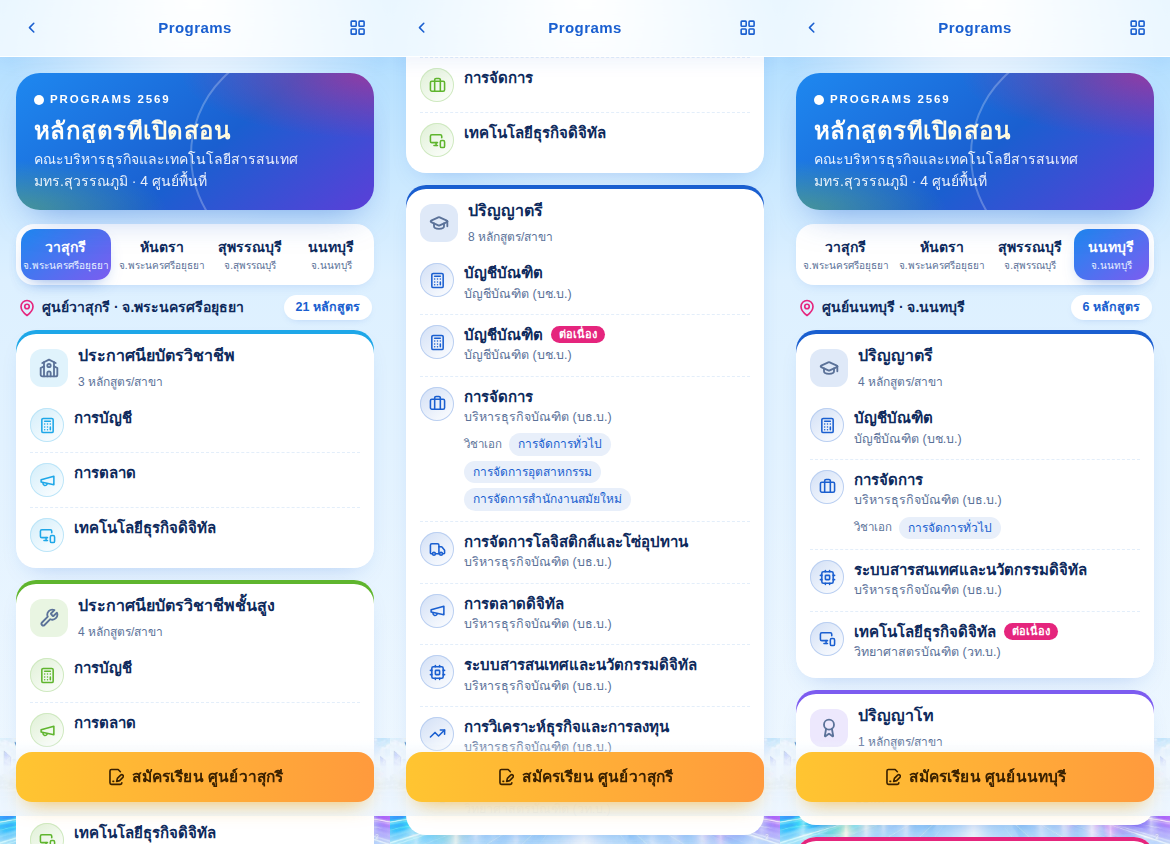
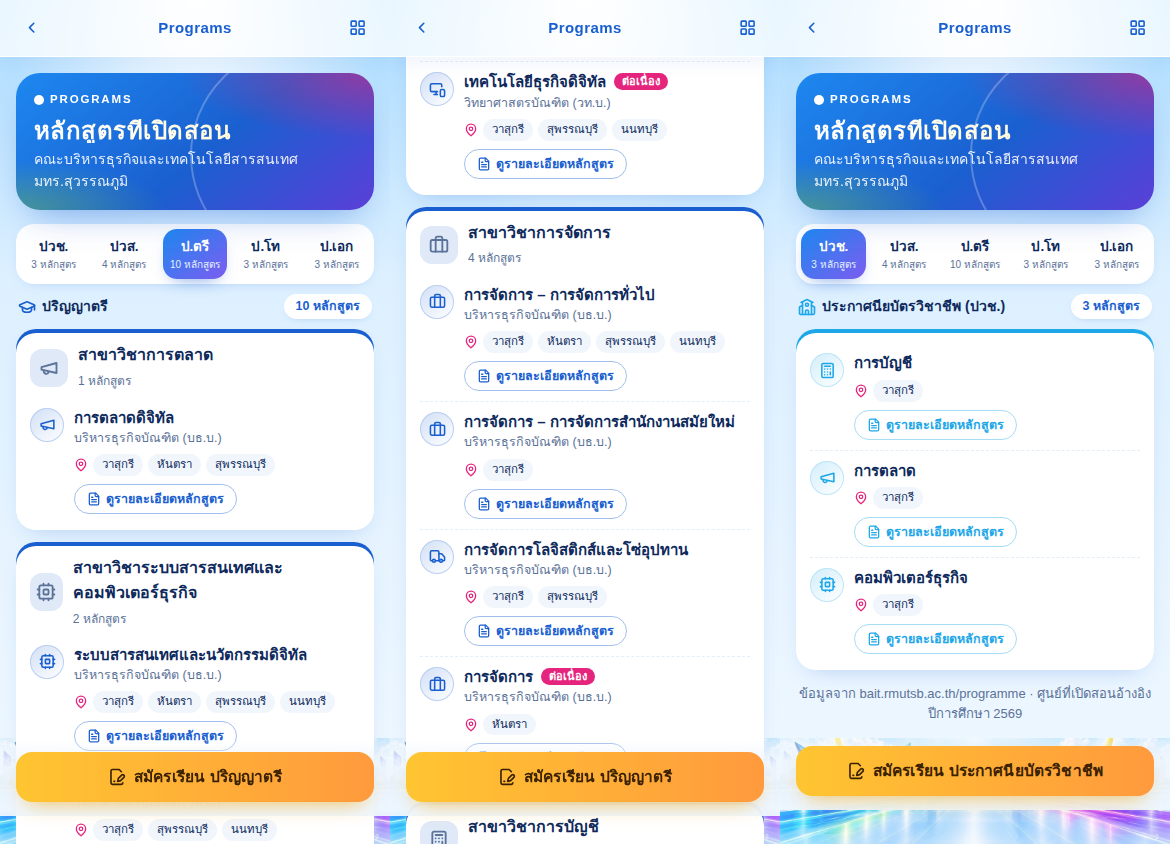
Add files via upload

diff --git a/index.html b/index.html
@@ -601,6 +601,15 @@ input.in:focus,select.in:focus{border-color:#1E88F0;box-shadow:var(--glow-c)}
 .pm span{font-size:11.5px;color:var(--muted);margin-right:2px}
 .pm em{font-style:normal;font-size:12px;color:var(--lc);background:color-mix(in srgb,var(--lc) 10%,#fff);border-radius:999px;padding:2px 9px}
 .applybar{position:sticky;bottom:0;margin:10px -16px -28px;padding:12px 16px calc(14px + env(safe-area-inset-bottom,0px));background:linear-gradient(180deg,rgba(238,247,255,0),rgba(238,247,255,.96) 35%)}
+
+.ctabs.lv5{grid-template-columns:repeat(5,1fr)}
+.ctabs.lv5 b{font-size:13.5px}
+.ptag.new{background:var(--lime)}
+.pc{display:flex;flex-wrap:wrap;align-items:center;gap:5px;margin-top:6px}
+.pc svg.lucide{width:14px;height:14px;color:var(--magenta)}
+.pc em{font-style:normal;font-size:11.5px;color:var(--text);background:#F1F6FC;border-radius:999px;padding:2px 9px}
+.plink{margin-top:8px;border:1px solid color-mix(in srgb,var(--lc) 40%,#fff);background:#fff;color:var(--lc);border-radius:999px;padding:4px 12px;font:600 12.5px var(--head);display:inline-flex;align-items:center;gap:5px;cursor:pointer}
+.plink svg.lucide{width:14px;height:14px}
 </style>
 </head>
 <body>
@@ -1191,53 +1200,76 @@ VIEWS.eval=function(){
     (u?'<button class="btn scanbig" id="eGo"><i data-lucide="clipboard-check"></i>ทำแบบประเมิน</button>':'<div class="card emptybox" style="margin-top:14px"><i data-lucide="clock"></i><div><b>แบบประเมินยังไม่เปิด</b><div class="sub" style="margin:4px 0 0">จะเปิดให้ทำในวันงาน</div></div></div>'),
     after:function(){if($("eGo"))$("eGo").onclick=function(){openUrl(u);};}};
 };
-/* ข้อมูลหลักสูตรคณะบริหารธุรกิจและเทคโนโลยีสารสนเทศ ปีการศึกษา 2569 (ข้อมูล ณ 1 ก.ย. 2569) */
-var BAIT_PROGRAMS=(function(){
-  var ACC={d:"บัญชีบัณฑิต (บช.บ.)",n:"บัญชีบัณฑิต"}, ACCC={d:"บัญชีบัณฑิต (บช.บ.)",n:"บัญชีบัณฑิต",c:1};
-  function BBA(n,o){return Object.assign({d:"บริหารธุรกิจบัณฑิต (บธ.บ.)",n:n},o||{});}
-  var DBT={d:"วิทยาศาสตรบัณฑิต (วท.บ.)",n:"เทคโนโลยีธุรกิจดิจิทัล",c:1};
-  return [
-  {k:"wasukri",name:"ศูนย์วาสุกรี",loc:"จ.พระนครศรีอยุธยา",levels:[
-    {lv:"ปวช.",full:"ประกาศนียบัตรวิชาชีพ",items:[{n:"การบัญชี"},{n:"การตลาด"},{n:"เทคโนโลยีธุรกิจดิจิทัล"}]},
-    {lv:"ปวส.",full:"ประกาศนียบัตรวิชาชีพชั้นสูง",items:[{n:"การบัญชี"},{n:"การตลาด"},{n:"การจัดการ"},{n:"เทคโนโลยีธุรกิจดิจิทัล"}]},
-    {lv:"ปริญญาตรี",full:"ปริญญาตรี",items:[ACC,ACCC,BBA("การจัดการ",{m:["การจัดการทั่วไป","การจัดการอุตสาหกรรม","การจัดการสำนักงานสมัยใหม่"]}),BBA("การจัดการโลจิสติกส์และโซ่อุปทาน"),BBA("การตลาดดิจิทัล"),BBA("ระบบสารสนเทศและนวัตกรรมดิจิทัล"),BBA("การวิเคราะห์ธุรกิจและการลงทุน"),DBT]},
-    {lv:"ปริญญาโท",full:"ปริญญาโท",items:[{d:"บธ.ม.",n:"บริหารธุรกิจมหาบัณฑิต"},{d:"บช.ม.",n:"บัญชีมหาบัณฑิต"},{d:"วท.ม.",n:"วิทยาการจัดการนวัตกรรมดิจิทัล"}]},
-    {lv:"ปริญญาเอก",full:"ปริญญาเอก",items:[{d:"บธ.ด.",n:"บริหารธุรกิจดุษฎีบัณฑิต"},{d:"ปร.ด.",n:"การบัญชี"},{d:"ปร.ด.",n:"วิทยาการจัดการนวัตกรรมดิจิทัล"}]}]},
-  {k:"huntra",name:"ศูนย์หันตรา",loc:"จ.พระนครศรีอยุธยา",levels:[
-    {lv:"ปริญญาตรี",full:"ปริญญาตรี",items:[ACC,BBA("การจัดการ",{m:["การจัดการทั่วไป"]}),BBA("การจัดการ",{c:1}),BBA("การตลาดดิจิทัล"),BBA("ระบบสารสนเทศและนวัตกรรมดิจิทัล")]}]},
-  {k:"suphan",name:"ศูนย์สุพรรณบุรี",loc:"จ.สุพรรณบุรี",levels:[
-    {lv:"ปริญญาตรี",full:"ปริญญาตรี",items:[ACC,ACCC,BBA("การจัดการ",{m:["การจัดการทั่วไป"]}),BBA("การจัดการโลจิสติกส์และโซ่อุปทาน"),BBA("การตลาดดิจิทัล"),BBA("ระบบสารสนเทศและนวัตกรรมดิจิทัล"),DBT]}]},
-  {k:"nonthaburi",name:"ศูนย์นนทบุรี",loc:"จ.นนทบุรี",levels:[
-    {lv:"ปริญญาตรี",full:"ปริญญาตรี",items:[ACC,BBA("การจัดการ",{m:["การจัดการทั่วไป"]}),BBA("ระบบสารสนเทศและนวัตกรรมดิจิทัล"),DBT]},
-    {lv:"ปริญญาโท",full:"ปริญญาโท",items:[{d:"บธ.ม.",n:"บริหารธุรกิจมหาบัณฑิต"}]},
-    {lv:"ปริญญาเอก",full:"ปริญญาเอก",items:[{d:"บธ.ด.",n:"บริหารธุรกิจดุษฎีบัณฑิต"}]}]}];
-})();
-var LV_STYLE={"ปวช.":["school","#1EA7E8"],"ปวส.":["wrench","#5FB52E"],"ปริญญาตรี":["graduation-cap","#1A5FD0"],"ปริญญาโท":["award","#7C5CF0"],"ปริญญาเอก":["medal","#E5257D"]};
+/* ข้อมูลหลักสูตร: https://bait.rmutsb.ac.th/programme/ · ศูนย์ที่เปิดสอนอ้างอิงข้อมูลหลักสูตรปีการศึกษา 2569 */
+var CW="วาสุกรี",CH="หันตรา",CS="สุพรรณบุรี",CN="นนทบุรี";
+var BAIT_LEVELS=[
+ {k:"pvc",tab:"ปวช.",full:"ประกาศนียบัตรวิชาชีพ (ปวช.)",apply:"https://bait.rmutsb.ac.th/button-admisvocational-page",groups:[
+  {g:"",items:[
+   {n:"การบัญชี",c:[CW],u:"D1JePwKcuocURZWpoKKtPju9KjRvWyFu2k"},
+   {n:"การตลาด",c:[CW],u:"D1vqIORQJ7J_tGnx1-sRrSpXaxwbhONFTC"},
+   {n:"คอมพิวเตอร์ธุรกิจ",c:[CW],u:"D11-yjJaUIb7jlYPV5Qua8RccSkV83ACzP"}]}]},
+ {k:"pvs",tab:"ปวส.",full:"ประกาศนียบัตรวิชาชีพชั้นสูง (ปวส.)",apply:"https://bait.rmutsb.ac.th/button-admishighvocational-page-3",groups:[
+  {g:"",items:[
+   {n:"การบัญชี",c:[CW],u:"D1PE13eix7jcgxxuR3JrZOZ4SlQG6ZQYox"},
+   {n:"การตลาด",c:[CW],u:"D19A7KiTvQ2E_cSX7ixLo606hQpL3lKwN7"},
+   {n:"การจัดการ",c:[CW],u:"D1rRVnzbPA-M9FII6Lt0gUCHE4q2d_1Y59"},
+   {n:"เทคโนโลยีธุรกิจดิจิทัล",c:[CW],u:"D11G-wYx2PgZ2FyjWu1jQSyIDGgBP707Wu"}]}]},
+ {k:"bd",tab:"ป.ตรี",full:"ปริญญาตรี",apply:"https://bait.rmutsb.ac.th/admisdegreehighvocational-3",groups:[
+  {g:"สาขาวิชาการตลาด",items:[{n:"การตลาดดิจิทัล",d:"บริหารธุรกิจบัณฑิต (บธ.บ.)",c:[CW,CH,CS],u:"D1I2UqqDTAE980A-0atF9HHBrkoIMsRY0J"}]},
+  {g:"สาขาวิชาระบบสารสนเทศและคอมพิวเตอร์ธุรกิจ",items:[
+   {n:"ระบบสารสนเทศและนวัตกรรมดิจิทัล",d:"บริหารธุรกิจบัณฑิต (บธ.บ.)",c:[CW,CH,CS,CN],u:"D1iEOzdCT7EtSkLvxn5N1UhxOBuTASmy1B"},
+   {n:"เทคโนโลยีธุรกิจดิจิทัล",d:"วิทยาศาสตรบัณฑิต (วท.บ.)",t:"ต่อเนื่อง",c:[CW,CS,CN],u:"D1lG-hPqUVffGVgUToHtr0v_ziKrKrDn0Z"}]},
+  {g:"สาขาวิชาการจัดการ",items:[
+   {n:"การจัดการ – การจัดการทั่วไป",d:"บริหารธุรกิจบัณฑิต (บธ.บ.)",c:[CW,CH,CS,CN],u:"D1wMEn2r7jpY3fTxQw8qqtxFQ4qZTDNYnr"},
+   {n:"การจัดการ – การจัดการสำนักงานสมัยใหม่",d:"บริหารธุรกิจบัณฑิต (บธ.บ.)",c:[CW],u:"D1wMEn2r7jpY3fTxQw8qqtxFQ4qZTDNYnr"},
+   {n:"การจัดการโลจิสติกส์และโซ่อุปทาน",d:"บริหารธุรกิจบัณฑิต (บธ.บ.)",c:[CW,CS],u:"D15kozN_qqWRBSabDeyreiXDmu1FIj2T-a"},
+   {n:"การจัดการ",d:"บริหารธุรกิจบัณฑิต (บธ.บ.)",t:"ต่อเนื่อง",c:[CH],u:"D17UzdWItw4XRkdOLAg6wdQ1wLOK1m1pj4"}]},
+  {g:"สาขาวิชาการบัญชี",items:[
+   {n:"บัญชีบัณฑิต",d:"บัญชีบัณฑิต (บช.บ.)",c:[CW,CH,CS,CN],u:"D1Cb2DQtxoPzYk4mWqM1B3c6Q1ZEDucymE"},
+   {n:"บัญชีบัณฑิต",d:"บัญชีบัณฑิต (บช.บ.)",t:"ต่อเนื่อง",c:[CW,CS],u:"D1uxKk9aFLkd70Aim5Xl6qwOKFgAJPe5ay"}]},
+  {g:"สาขาวิชาการเงินและเศรษฐศาสตร์",items:[
+   {n:"การวิเคราะห์ธุรกิจและการลงทุน",d:"บริหารธุรกิจบัณฑิต (บธ.บ.)",t:"หลักสูตรใหม่ 2569",c:[CW],u:"D1ALWX1yAPQ6rzZoX3tOo6DlCUlqDiEPqi"}]}]},
+ {k:"ms",tab:"ป.โท",full:"ปริญญาโท",apply:"",groups:[
+  {g:"",items:[
+   {n:"บริหารธุรกิจมหาบัณฑิต (M.B.A.)",d:"บธ.ม.",c:[CW,CN],u:"D1X1XkhnGyXTW14CH-b4wzDrExpUuX2FFB"},
+   {n:"บัญชีมหาบัณฑิต (M.Acc.)",d:"บช.ม.",c:[CW],u:"D1UpuO-SC72fV8Egr1arr13oRNEIUL4LZ8"},
+   {n:"วิทยาการจัดการนวัตกรรมดิจิทัล (D.I.M.)",d:"วิทยาศาสตรมหาบัณฑิต (วท.ม.)",c:[CW],u:"D1NiYjxaNTJmofHpYMX942xq-pM7niFS9M"}]}]},
+ {k:"phd",tab:"ป.เอก",full:"ปริญญาเอก",apply:"",groups:[
+  {g:"",items:[
+   {n:"บริหารธุรกิจดุษฎีบัณฑิต (D.B.A.)",d:"บธ.ด.",c:[CW,CN],u:"D1dbyS4roPHz6jpYjK7Gu44V-fDgOJedvX"},
+   {n:"การบัญชี (Ph.D.Acc.)",d:"ปรัชญาดุษฎีบัณฑิต (ปร.ด.)",c:[CW],u:"D1RZ4PJlwGe8fXOfY5D4UgNNuSz27U1zAD"},
+   {n:"วิทยาการจัดการนวัตกรรมดิจิทัล (Ph.D.D.I.M.)",d:"ปรัชญาดุษฎีบัณฑิต (ปร.ด.)",c:[CW],u:"D1uGQOJhTx1s2hKKvaImWbsRMase4WrSgF"}]}]}
+];
+var LV_STYLE2={pvc:["school","#1EA7E8"],pvs:["wrench","#5FB52E"],bd:["graduation-cap","#1A5FD0"],ms:["award","#7C5CF0"],phd:["medal","#E5257D"]};
+function driveUrl(u){return u?"https://drive.google.com/file/d/"+u.slice(1)+"/view":"";}
 function progIcon(n){
   if(/บัญชี/.test(n))return "calculator"; if(/โลจิสติกส์/.test(n))return "truck"; if(/การตลาด/.test(n))return "megaphone";
-  if(/ระบบสารสนเทศ/.test(n))return "cpu"; if(/วิเคราะห์ธุรกิจ/.test(n))return "trending-up"; if(/เทคโนโลยีธุรกิจดิจิทัล/.test(n))return "monitor-smartphone";
+  if(/ระบบสารสนเทศ|คอมพิวเตอร์/.test(n))return "cpu"; if(/วิเคราะห์ธุรกิจ/.test(n))return "trending-up"; if(/เทคโนโลยีธุรกิจดิจิทัล/.test(n))return "monitor-smartphone";
   if(/นวัตกรรมดิจิทัล/.test(n))return "lightbulb"; return "briefcase";
 }
 VIEWS.programs=function(p){
-  var ck=(p&&p.c)||"wasukri", ap=S.settings.applyUrl, C=BAIT_PROGRAMS.filter(function(c){return c.k===ck;})[0]||BAIT_PROGRAMS[0];
-  var total=C.levels.reduce(function(t,l){return t+l.items.length;},0);
-  var tabs='<div class="ctabs" role="tablist">'+BAIT_PROGRAMS.map(function(c){return '<button role="tab" aria-selected="'+(c.k===C.k)+'" data-c="'+c.k+'"><b>'+esc(c.name.replace("ศูนย์",""))+'</b><span>'+esc(c.loc)+'</span></button>';}).join("")+'</div>';
-  var sections=C.levels.map(function(L){var st=LV_STYLE[L.lv]||["book-open","#1A5FD0"];
-    return '<section class="lvsec" style="--lc:'+st[1]+'"><div class="lvhead"><span class="lvic"><i data-lucide="'+st[0]+'"></i></span><div><b>'+esc(L.full)+'</b><span>'+L.items.length+' หลักสูตร/สาขา</span></div></div>'+
-      '<ul class="plist">'+L.items.map(function(it){
-        return '<li><span class="pic"><i data-lucide="'+progIcon(it.n)+'"></i></span><div><div class="pn">'+esc(it.n)+(it.c?' <span class="ptag">ต่อเนื่อง</span>':'')+'</div>'+
+  var lk=(p&&p.l)||"bd", L=BAIT_LEVELS.filter(function(x){return x.k===lk;})[0]||BAIT_LEVELS[2], st=LV_STYLE2[L.k];
+  var ap=L.apply||S.settings.applyUrl||"https://admis.rmutsb.ac.th/";
+  var total=L.groups.reduce(function(t,g){return t+g.items.length;},0);
+  var tabs='<div class="ctabs lv5" role="tablist">'+BAIT_LEVELS.map(function(x){var n=x.groups.reduce(function(t,g){return t+g.items.length;},0);return '<button role="tab" aria-selected="'+(x.k===L.k)+'" data-l="'+x.k+'"><b>'+esc(x.tab)+'</b><span>'+n+' หลักสูตร</span></button>';}).join("")+'</div>';
+  var body=L.groups.map(function(G){
+    return '<section class="lvsec" style="--lc:'+st[1]+'">'+(G.g?'<div class="lvhead"><span class="lvic"><i data-lucide="'+progIcon(G.g)+'"></i></span><div><b>'+esc(G.g)+'</b><span>'+G.items.length+' หลักสูตร</span></div></div>':'')+
+      '<ul class="plist">'+G.items.map(function(it){
+        return '<li><span class="pic"><i data-lucide="'+progIcon(it.n)+'"></i></span><div><div class="pn">'+esc(it.n)+(it.t?' <span class="ptag'+(/ใหม่/.test(it.t)?' new':'')+'">'+esc(it.t)+'</span>':'')+'</div>'+
           (it.d?'<div class="pd">'+esc(it.d)+'</div>':'')+
-          (it.m?'<div class="pm"><span>วิชาเอก</span>'+it.m.map(function(x){return '<em>'+esc(x)+'</em>';}).join("")+'</div>':'')+'</div></li>';}).join("")+'</ul></section>';}).join("");
+          '<div class="pc"><i data-lucide="map-pin"></i>'+it.c.map(function(c){return '<em>'+esc(c)+'</em>';}).join("")+'</div>'+
+          (it.u?'<button class="plink" data-doc="'+driveUrl(it.u)+'"><i data-lucide="file-text"></i>ดูรายละเอียดหลักสูตร</button>':'')+'</div></li>';}).join("")+'</ul></section>';}).join("");
   return {title:"Programs",html:
-    '<div class="hero"><div class="hud-k">PROGRAMS 2569</div><div class="wordmark" style="font-size:24px">หลักสูตรที่เปิดสอน</div><p>คณะบริหารธุรกิจและเทคโนโลยีสารสนเทศ มทร.สุวรรณภูมิ · 4 ศูนย์พื้นที่</p></div>'+
+    '<div class="hero"><div class="hud-k">PROGRAMS</div><div class="wordmark" style="font-size:24px">หลักสูตรที่เปิดสอน</div><p>คณะบริหารธุรกิจและเทคโนโลยีสารสนเทศ มทร.สุวรรณภูมิ</p></div>'+
     tabs+
-    '<div class="chead"><span><i data-lucide="map-pin"></i>'+esc(C.name)+' · '+esc(C.loc)+'</span><span class="ccount">'+total+' หลักสูตร</span></div>'+
-    sections+
-    '<p class="note" style="text-align:center;margin:14px 0 4px">ที่มา: ข้อมูลหลักสูตรประจำปีการศึกษา 2569 (ณ 1 ก.ย. 2569) ตรวจสอบหลักสูตรและรอบรับสมัครล่าสุดในระบบรับสมัคร</p>'+
-    '<div class="applybar"><button class="btn gold" id="pgApply"><i data-lucide="file-pen-line"></i>สมัครเรียน '+esc(C.name)+'</button></div>',
+    '<div class="chead"><span style="--lc:'+st[1]+'"><i data-lucide="'+st[0]+'" style="color:'+st[1]+'"></i>'+esc(L.full)+'</span><span class="ccount">'+total+' หลักสูตร</span></div>'+
+    body+
+    '<p class="note" style="text-align:center;margin:14px 0 4px">ข้อมูลจาก bait.rmutsb.ac.th/programme · ศูนย์ที่เปิดสอนอ้างอิงปีการศึกษา 2569</p>'+
+    '<div class="applybar"><button class="btn gold" id="pgApply"><i data-lucide="file-pen-line"></i>สมัครเรียน '+esc(L.full.replace(/ \(.*\)/,""))+'</button></div>',
     after:function(){
-      [].forEach.call(document.querySelectorAll("[data-c]"),function(b){b.onclick=function(){go("programs",{c:b.dataset.c},true);};});
-      $("pgApply").onclick=function(){openUrl(ap||"https://admis.rmutsb.ac.th/");};
+      [].forEach.call(document.querySelectorAll("[data-l]"),function(b){b.onclick=function(){go("programs",{l:b.dataset.l},true);};});
+      [].forEach.call(document.querySelectorAll("[data-doc]"),function(b){b.onclick=function(){openUrl(b.dataset.doc);};});
+      $("pgApply").onclick=function(){openUrl(ap);};
     }};
 };
 VIEWS.admission=VIEWS.programs;
